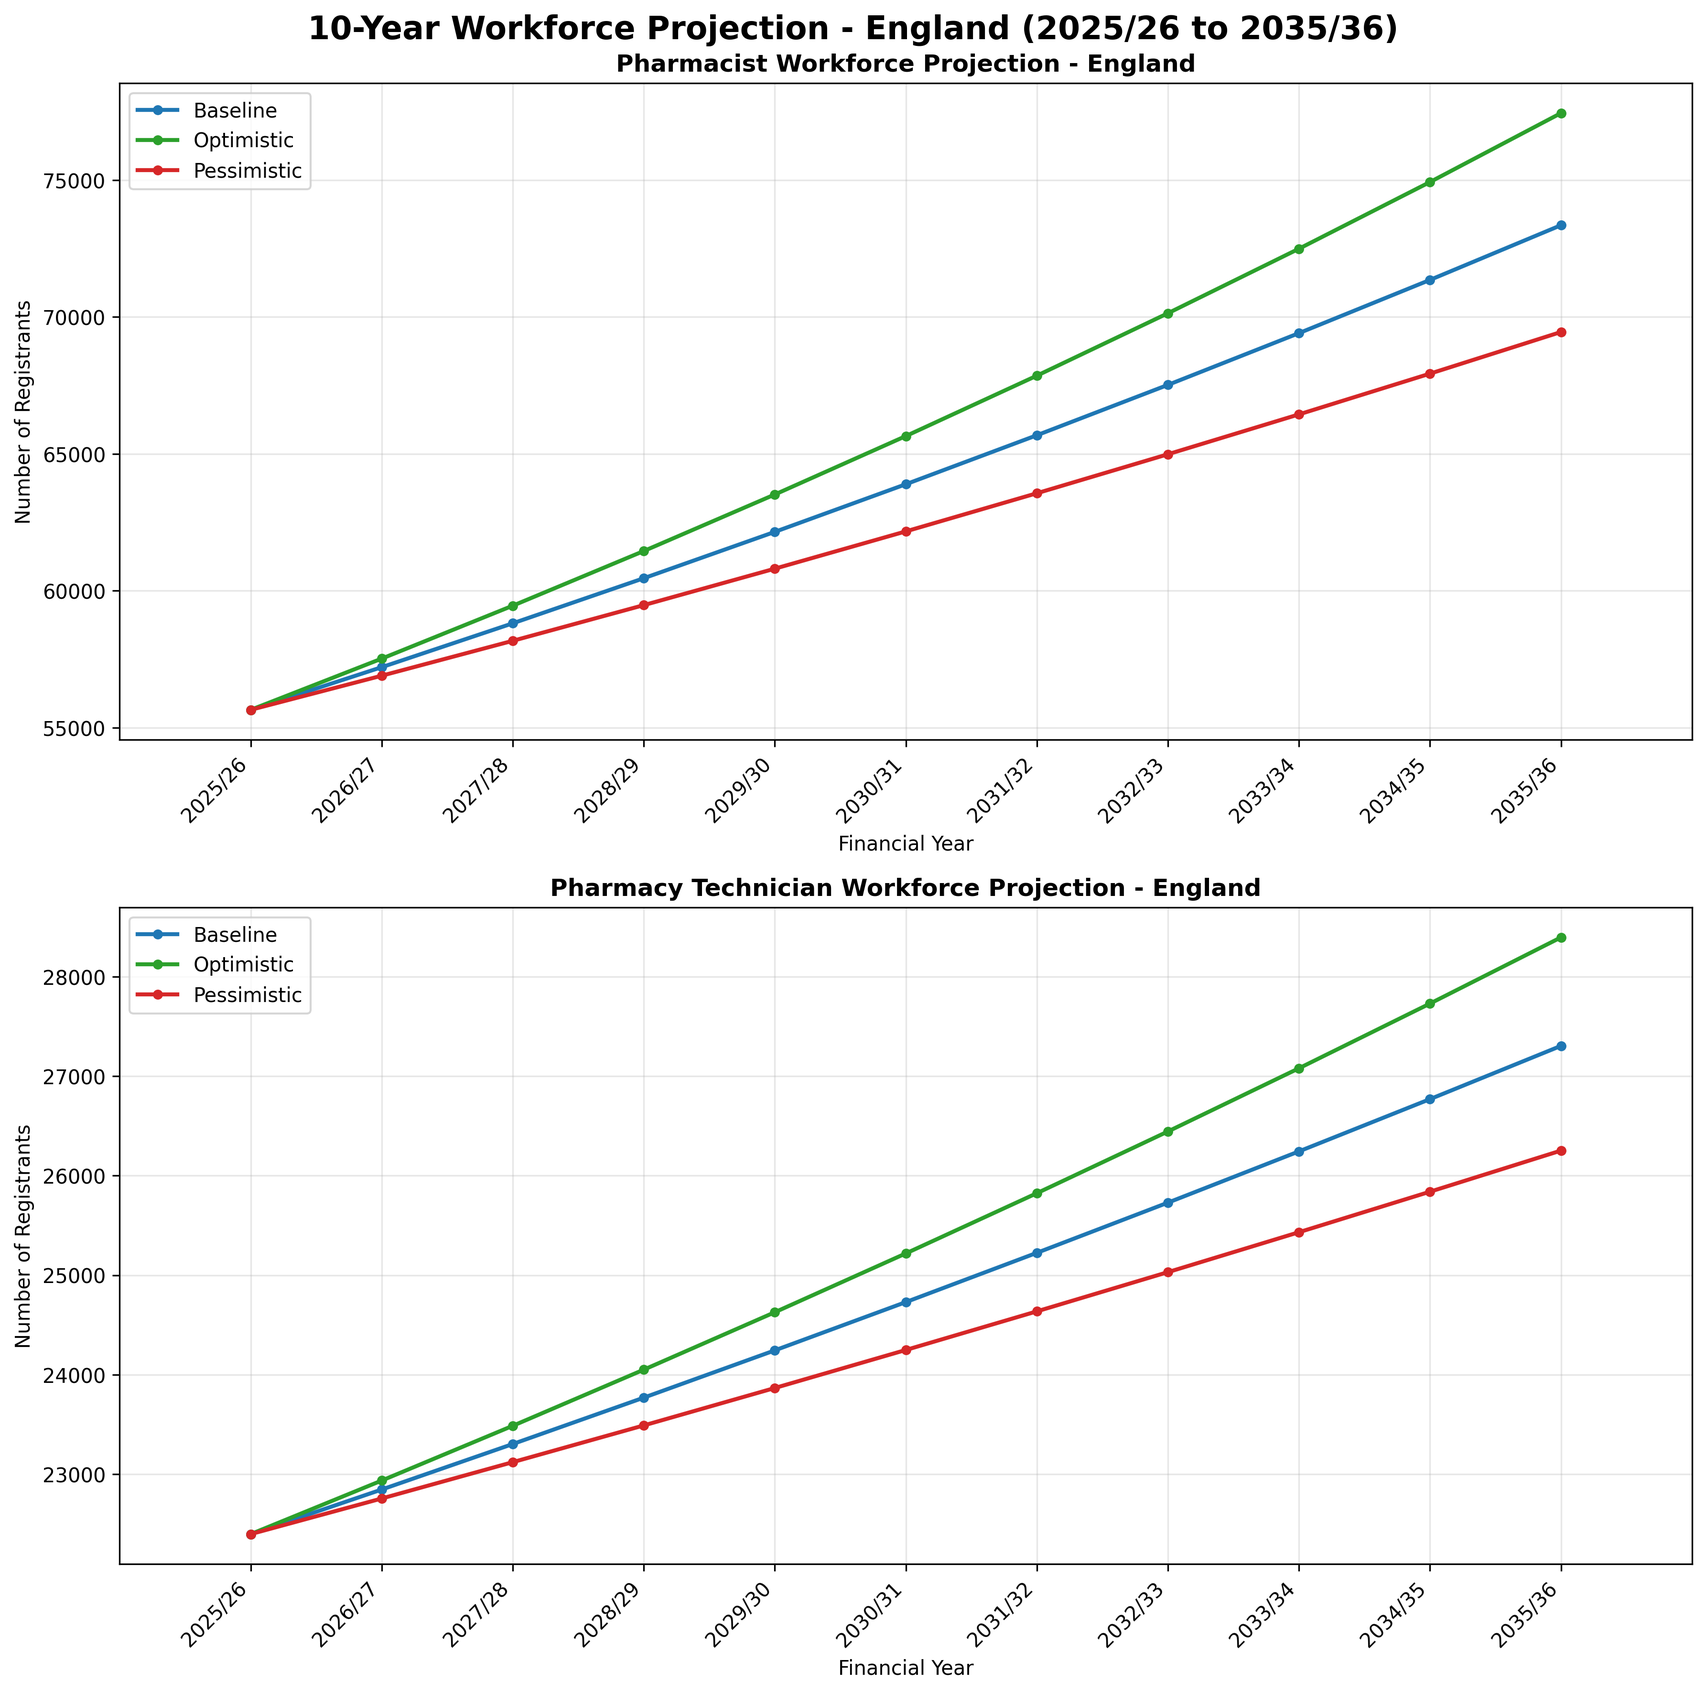
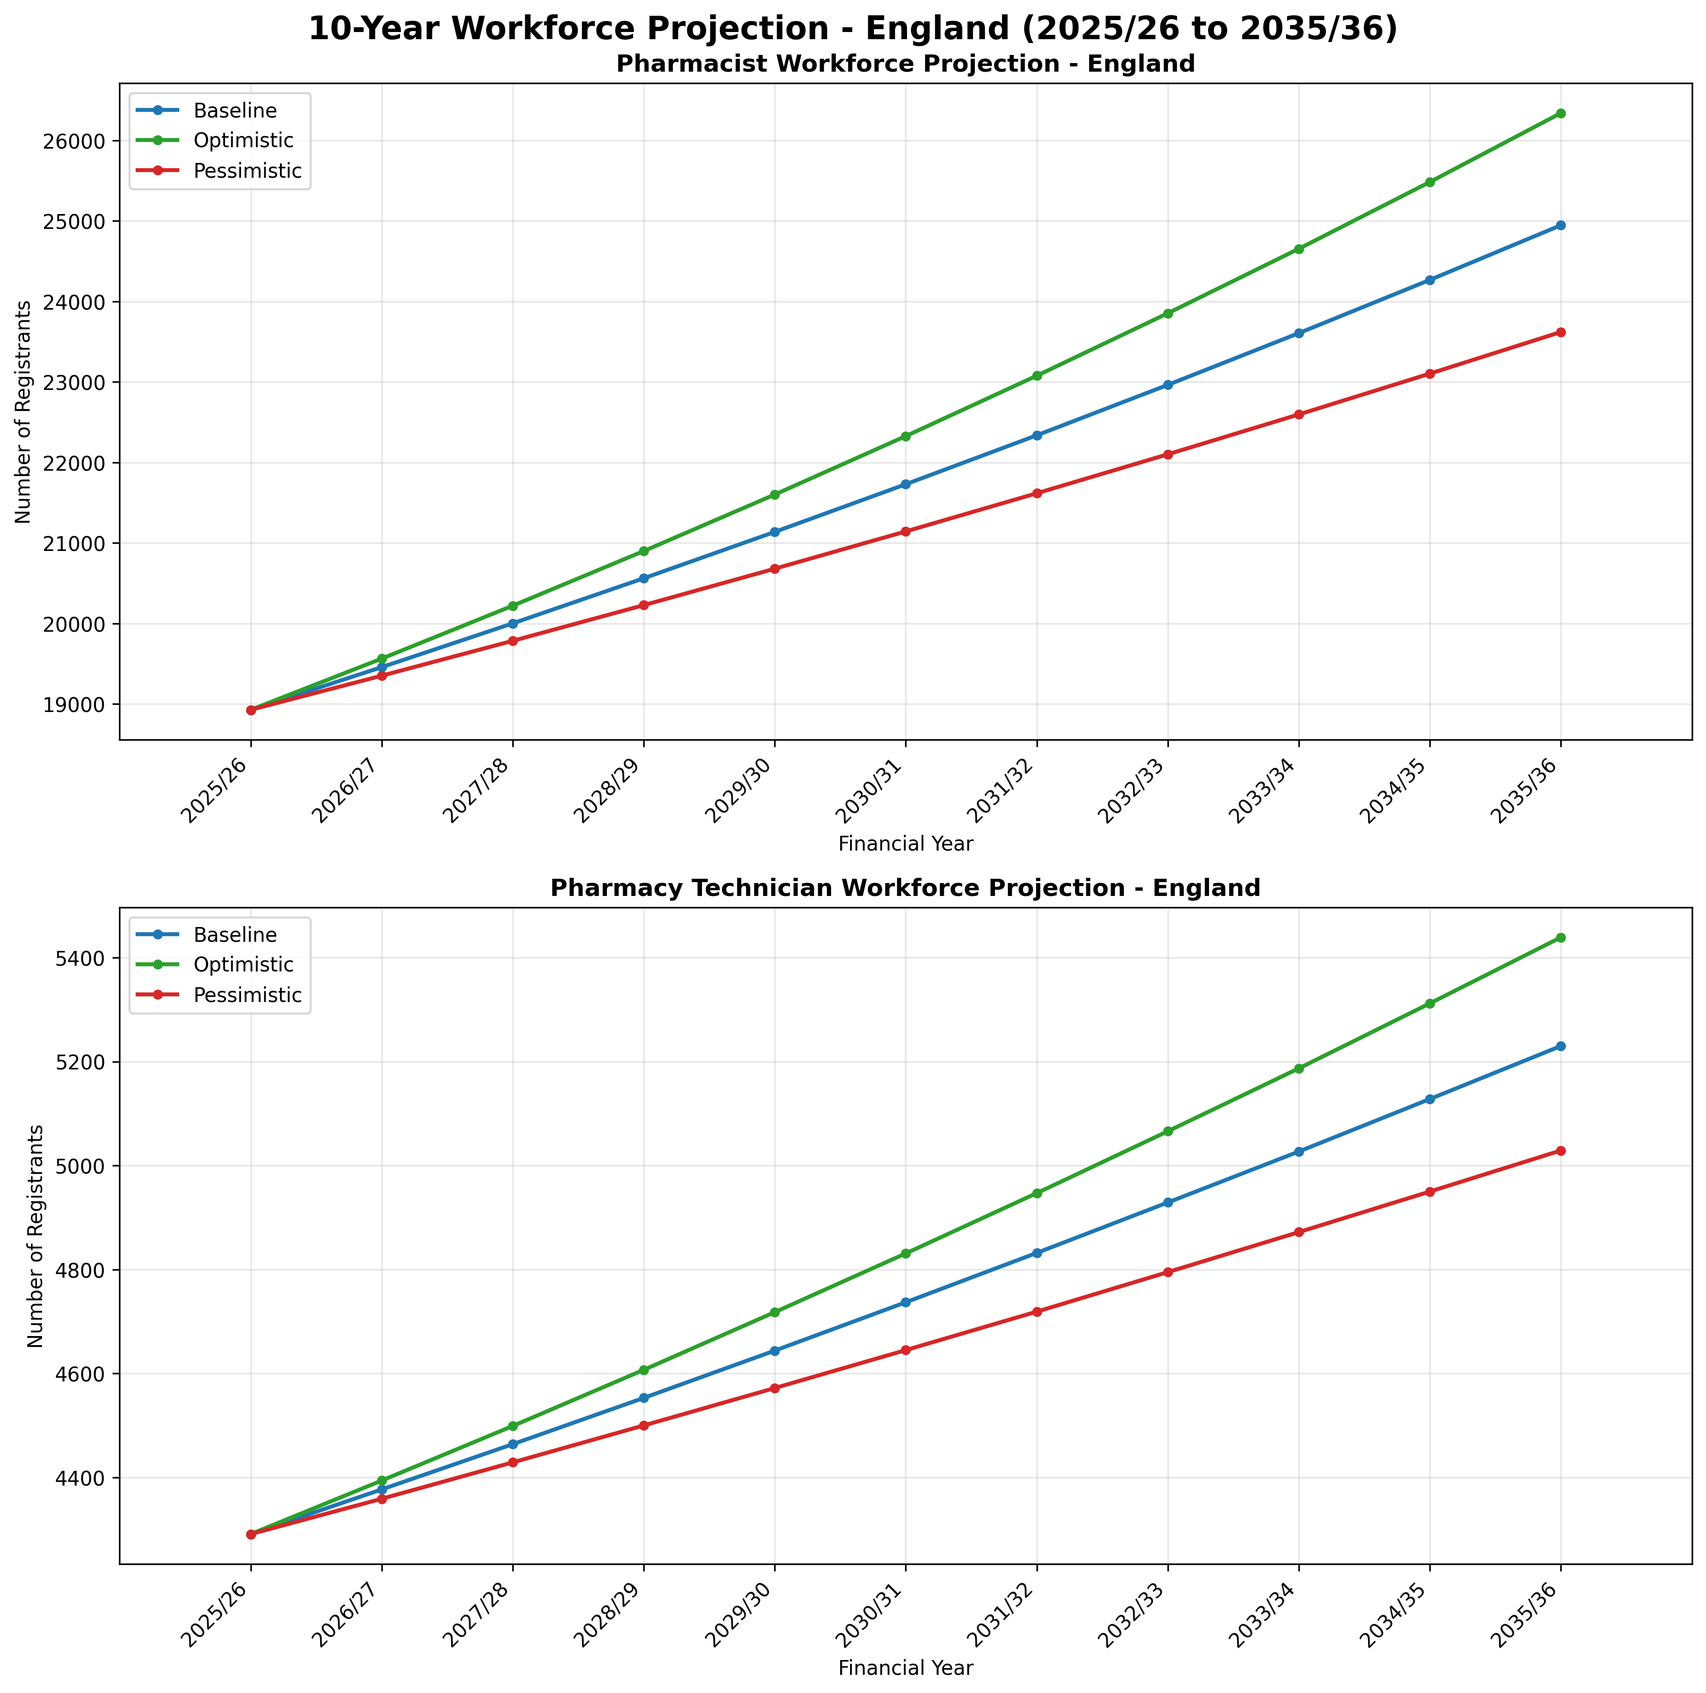
refactor: separate baseline sourcing from growth rate calculation
- Split calculate_annual_growth_rates into two functions:
  * get_baseline(): retrieves baseline data (default: CPWS, option: GPhC)
  * calculate_annual_growth_rates(): calculates CAGR only (removed baseline_total)
- Update project_workforce() to accept baseline and growth_rates as separate parameters
- Consolidate select_registrants_data() into get_baseline() for cleaner API
- Centralize library imports (pandas, sys, Path) in config.py
- Update all scripts to use 'import config' pattern
- Update visualization script to use new function signature
- Update README to clarify CPWS as default baseline and GPhC for growth rates

This refactoring improves separation of concerns, allowing flexible baseline
data source selection while maintaining consistent growth rate calculations
from GPhC historical data.

diff --git a/src/input_data.py b/src/input_data.py
@@ -4,10 +4,8 @@ Input data loading and preprocessing functions.
 Handles reading CSV files and preprocessing data for workforce projections.
 """
 
-import pandas as pd
-from pathlib import Path
 from utils import get_data_dir
-from config import BASELINE_YEAR, BASELINE_MONTH
+from config import BASELINE_YEAR, BASELINE_MONTH, pd, sys, Path
 
 
 def load_csv(file_path, skipinitialspace=True):
@@ -145,6 +143,101 @@ def load_leavers_data(data_dir=None, filename='gphc-registrants-leavers.csv'):
     return df
 
 
+def get_baseline_from_gphc(data_dir=None, filename='gphc-total-number-of-pharmacy-registrants.csv'):
+    """
+    Extract baseline data from GPhC registrants CSV file.
+    
+    Extracts baseline values for March of the baseline year from the GPhC data.
+    Returns values in consistent format: baseline_pharmacists and baseline_technicians.
+    
+    Args:
+        data_dir: Optional data directory path. If None, uses default project structure.
+        filename: Name of the CSV file to load
+    
+    Returns:
+        dict: Dictionary with keys 'baseline_pharmacists' and 'baseline_technicians'
+    """
+    # Load registrants data filtered for baseline year and month
+    df = load_registrants_data(data_dir, filename)
+    
+    # Filter for baseline year
+    df = df[df['year'] == BASELINE_YEAR].copy()
+    
+    # Extract baseline values by profession
+    baseline_data = {}
+    for profession in df['profession'].unique():
+        profession_df = df[df['profession'] == profession]
+        if not profession_df.empty:
+            baseline_value = int(profession_df['registrants'].values[0])
+            # Map profession names to consistent variable names
+            if 'Pharmacist' in profession:
+                baseline_data['baseline_pharmacists'] = baseline_value
+            elif 'Pharmacy Technician' in profession or 'Technician' in profession:
+                baseline_data['baseline_technicians'] = baseline_value
+    
+    return baseline_data
+
+
+def get_baseline_from_cpws():
+    """
+    Load baseline data from CPWS configuration file.
+    
+    Imports baseline_pharmacists and baseline_technicians from data/cpws.py.
+    Returns values in consistent format.
+    
+    Returns:
+        dict: Dictionary with keys 'baseline_pharmacists' and 'baseline_technicians'
+    """
+    # Add data directory to path to import cpws module
+    project_root = Path(__file__).parent.parent
+    data_dir = project_root / 'data'
+    sys.path.insert(0, str(data_dir))
+    
+    import cpws
+    baseline_data = {
+        'baseline_pharmacists': cpws.baseline_pharmacists,
+        'baseline_technicians': cpws.baseline_technicians
+    }
+    return baseline_data
+
+
+def get_baseline(source='cpws', data_dir=None):
+    """
+    Get baseline workforce data per profession.
+    
+    Retrieves baseline values from either CPWS (default) or GPhC data source.
+    Returns baseline values in a consistent format per profession.
+    
+    Args:
+        source: Data source selection - 'cpws' (default) or 'gphc'
+        data_dir: Optional data directory path for GPhC CSV (only used if source='gphc')
+    
+    Returns:
+        dict: Baseline data by profession with keys:
+            - 'Pharmacist': baseline value
+            - 'Pharmacy Technician': baseline value
+    
+    Raises:
+        ValueError: If source is not 'cpws' or 'gphc'
+    """
+    # Select baseline data source
+    if source.lower() == 'cpws':
+        baseline_dict = get_baseline_from_cpws()
+    elif source.lower() == 'gphc':
+        baseline_dict = get_baseline_from_gphc(data_dir)
+    else:
+        raise ValueError(f"Invalid source '{source}'. Must be 'cpws' or 'gphc'")
+    
+    # Map to profession names used in the data
+    baseline_data = {}
+    if 'baseline_pharmacists' in baseline_dict:
+        baseline_data['Pharmacist'] = baseline_dict['baseline_pharmacists']
+    if 'baseline_technicians' in baseline_dict:
+        baseline_data['Pharmacy Technician'] = baseline_dict['baseline_technicians']
+    
+    return baseline_data
+
+
 def calculate_annual_growth_rates(total_df):
     """
     Calculate Compound Annual Growth Rate (CAGR) from yearly snapshot data (2018 to 2025).
@@ -162,7 +255,6 @@ def calculate_annual_growth_rates(total_df):
     
     Returns:
         dict: Growth rate data by profession with keys:
-            - baseline_total: Registrants at baseline year (March 2025 snapshot)
             - annual_growth_rate_pct: CAGR percentage (7-year average annual growth rate)
             - annual_change_estimate: Estimated annual absolute change
             - change_period: Total change over the 7-year period
@@ -231,7 +323,6 @@ def calculate_annual_growth_rates(total_df):
         annual_change_estimate = change_period / years_elapsed
         
         data[profession] = {
-            'baseline_total': baseline_total,
             'annual_growth_rate_pct': round(annual_growth_rate_pct, 2),
             'annual_change_estimate': round(annual_change_estimate, 1),
             'change_period': change_period,
@@ -279,43 +370,3 @@ def create_scenarios(rates_dict):
         'optimistic': 1.2,     # Plus 20% (higher growth)
         'pessimistic': 0.8     # Minus 20% (lower growth)
     }
-
-
-def validate_registrants_data(df):
-    """
-    Validate registrants dataframe for required columns and data quality.
-    
-    Args:
-        df: DataFrame to validate
-    
-    Returns:
-        tuple: (is_valid, error_messages)
-    """
-    errors = []
-    required_columns = ['profession', 'registrants', 'month', 'year']
-    
-    # Check required columns
-    missing_columns = [col for col in required_columns if col not in df.columns]
-    if missing_columns:
-        errors.append(f"Missing required columns: {', '.join(missing_columns)}")
-    
-    # Check for null values in required columns
-    for col in required_columns:
-        if col in df.columns and df[col].isnull().any():
-            null_count = df[col].isnull().sum()
-            errors.append(f"Column '{col}' has {null_count} null values")
-    
-    # Check for negative registrants
-    if 'registrants' in df.columns:
-        if (df['registrants'] < 0).any():
-            errors.append("Found negative values in 'registrants' column")
-    
-    # Check month and year ranges
-    if 'month' in df.columns:
-        invalid_months = df[(df['month'] < 1) | (df['month'] > 12)]
-        if not invalid_months.empty:
-            errors.append(f"Found {len(invalid_months)} rows with invalid month values")
-    
-    is_valid = len(errors) == 0
-    return is_valid, errors
-

diff --git a/src/project_workforce.py b/src/project_workforce.py
@@ -6,14 +6,12 @@ for Pharmacist and Pharmacy Technician professions based on actual registration 
 for England only.
 """
 
-import pandas as pd
-from config import (
-    DURATION, START_PROJECTION_YEAR
-)
+import config
 from input_data import (
     load_registrants_data,
     calculate_annual_growth_rates,
-    create_scenarios
+    create_scenarios,
+    get_baseline
 )
 from utils import add_financial_year_column
 
@@ -23,25 +21,32 @@ def load_registration_data(data_dir=None):
     return load_registrants_data(data_dir)
 
 
-def project_workforce(rates, duration=DURATION):
+def project_workforce(baseline, growth_rates, duration=config.DURATION):
     """
-    Project workforce over specified years based on Compound Annual Growth Rate (CAGR).
+    Project workforce over specified years based on baseline and Compound Annual Growth Rate (CAGR).
     
-    Uses the calculated CAGR (average annual growth rate) to project future workforce
-    numbers. The CAGR is applied annually with compounding effects.
+    Uses the provided baseline values and calculated CAGR (average annual growth rate) to project
+    future workforce numbers. The CAGR is applied annually with compounding effects.
     
     Args:
-        rates: Dictionary from calculate_annual_growth_rates() with CAGR data
-        duration: Number of years to project (default: DURATION from config)
+        baseline: Dictionary from get_baseline() with baseline values per profession
+        growth_rates: Dictionary from calculate_annual_growth_rates() with CAGR data per profession
+        duration: Number of years to project (default: config.DURATION)
     
     Returns:
         dict: Projections by profession and scenario
     """
-    scenarios = create_scenarios(rates)
+    scenarios = create_scenarios(growth_rates)
     
     projections = {}
     
-    for profession, rate_data in rates.items():
+    for profession in growth_rates.keys():
+        if profession not in baseline:
+            print(f"Warning: No baseline data for {profession}. Skipping projections.")
+            continue
+        
+        rate_data = growth_rates[profession]
+        baseline_total = baseline[profession]
         projections[profession] = {}
         
         for scenario_name, adjustment in scenarios.items():
@@ -49,13 +54,13 @@ def project_workforce(rates, duration=DURATION):
             adjusted_growth_rate = rate_data['annual_growth_rate_pct'] * adjustment
             
             # Project year by year starting from baseline period (baseline_year = current_year)
-            current_total = rate_data['baseline_total']
+            current_total = baseline_total
             projection = []
             
             for year in range(duration + 1):
                 if year == 0:
                     projection.append({
-                        'year': START_PROJECTION_YEAR + year,
+                        'year': config.START_PROJECTION_YEAR + year,
                         'total': current_total,
                         'change': 0,
                         'scenario': scenario_name
@@ -66,7 +71,7 @@ def project_workforce(rates, duration=DURATION):
                     change = round(current_total * (adjusted_growth_rate / 100), 5)
                     current_total = round(current_total + change, 5)
                     projection.append({
-                        'year': START_PROJECTION_YEAR + year,
+                        'year': config.START_PROJECTION_YEAR + year,
                         'total': current_total,
                         'change': change,
                         'scenario': scenario_name
@@ -97,7 +102,7 @@ def format_projections(projections):
                     'scenario': scenario_name
                 })
         
-        df = pd.DataFrame(rows)
+        df = config.pd.DataFrame(rows)
         # Add financial year column
         df = add_financial_year_column(df)
         formatted[profession] = df

diff --git a/src/main.py b/src/main.py
@@ -8,10 +8,11 @@ Usage:
     python main.py
 """
 
-from config import DURATION, BASELINE_YEAR
+import config
 from project_workforce import (
     load_registration_data,
     calculate_annual_growth_rates,
+    get_baseline,
     project_workforce,
     format_projections
 )
@@ -19,25 +20,30 @@ from project_workforce import (
 
 def main():
     """Main execution function."""
+    # Get CPWS data
+    baseline = get_baseline(source='cpws')
+    
+    # Calculate growth rates from GPhC historical data
     total_df = load_registration_data()
-    rates = calculate_annual_growth_rates(total_df)
+    growth_rates = calculate_annual_growth_rates(total_df)
     
     print("\n" + "="*60)
     print("Baseline and Annual Growth Rates (CAGR)")
     print("="*60)
-    print(f"Growth Rate Calculation Period: {list(rates.values())[0]['years_elapsed']} year(s) (2018-2025)")
-    print(f"Projection Period: {DURATION} years")
+    print(f"Growth Rate Calculation Period: {list(growth_rates.values())[0]['years_elapsed']} year(s) (2018-2025)")
+    print(f"Projection Period: {config.DURATION} years")
     print("Note: Annual Growth Rate = Compound Annual Growth Rate (CAGR)")
     print()
-    for profession, rate_data in rates.items():
-        print(f"{profession}:")
-        print(f"  Baseline (March {BASELINE_YEAR}): {rate_data['baseline_total']:,} registrants")
-        print(f"  CAGR (Average Annual Growth Rate): {rate_data['annual_growth_rate_pct']:.2f}%")
-        print(f"  Annual Change Estimate: {rate_data['annual_change_estimate']:,.0f} registrants/year")
+    for profession in growth_rates.keys():
+        if profession in baseline:
+            print(f"{profession}:")
+            print(f"  Baseline: {baseline[profession]:,}")
+            print(f"  CAGR (Average Annual Growth Rate): {growth_rates[profession]['annual_growth_rate_pct']:.2f}%")
+            print(f"  Annual Change Estimate: {growth_rates[profession]['annual_change_estimate']:,.0f} registrants/year")
     print("="*60 + "\n")
     
-    print(f"Creating {DURATION}-year projections...")
-    projections = project_workforce(rates)
+    print(f"Creating {config.DURATION}-year projections...")
+    projections = project_workforce(baseline, growth_rates)
     
     print("Formatting projections...")
     projections_df = format_projections(projections)

diff --git a/viz/visualize_projections.py b/viz/visualize_projections.py
@@ -22,7 +22,7 @@ from project_workforce import (
     project_workforce,
     format_projections
 )
-from input_data import calculate_annual_growth_rates
+from input_data import calculate_annual_growth_rates, get_baseline
 from utils import calendar_to_financial_year
 
 
@@ -37,14 +37,17 @@ def create_visualizations(output_dir=None):
     output_dir.mkdir(parents=True, exist_ok=True)
     
     # Generate projections data
+    print("Getting baseline data (CPWS)...")
+    baseline = get_baseline(source='cpws')
+    
     print("Loading registration data...")
     total_df = load_registration_data()
     
     print("Calculating annual growth rates...")
-    rates = calculate_annual_growth_rates(total_df)
+    growth_rates = calculate_annual_growth_rates(total_df)
     
     print(f"Creating {DURATION}-year projections...")
-    projections = project_workforce(rates)
+    projections = project_workforce(baseline, growth_rates)
     
     print("Formatting projections...")
     projections_df = format_projections(projections)

diff --git a/src/config.py b/src/config.py
@@ -4,12 +4,15 @@ Configuration file for workforce projection model.
 Define baseline period and projection parameters here.
 """
 
+# Import libraries
+import sys
+from pathlib import Path
+import pandas as pd
+from utils import calendar_to_financial_year
+
 # Baseline period configuration
 BASELINE_YEAR = 2025
 BASELINE_MONTH = 3  # March 2025 (annual snapshot month)
-
-# Import financial year conversion function
-from utils import calendar_to_financial_year
 
 # Convert baseline year to financial year format (2025 -> '2025/26')
 CURRENT_FINANCIAL_YEAR = calendar_to_financial_year(BASELINE_YEAR)  # 2025/26

diff --git a/README.md b/README.md
@@ -6,6 +6,7 @@ This workforce projection model supports NHS workforce planning for community ph
 ```
 community-pharmacy-workforce-with-open-data/
 ├── data/                          # Data files
+│   ├── cpws.py
 │   ├── gphc-total-number-of-pharmacy-registrants.csv
 │   ├── gphc-registrants-joiners.csv
 │   └── gphc-registrants-leavers.csv
@@ -27,7 +28,12 @@ community-pharmacy-workforce-with-open-data/
 ```
 
 ## Data sources
-- [GPhC registers data](https://www.pharmacyregulation.org/about-us/publications-and-insights/research-data-and-insights/gphc-registers-data)
+- Baseline: [Community Pharmacy Workforce Survey (CPWS)](https://www.data.gov.uk/dataset/09aa8f38-547a-46b7-a117-2cb710ad939b/)
+    - **Unit**: Both Headcount and Full-time equivalent (FTE) figures are available
+    - **Care setting**: High-street pharmacies only
+    - **Survey data**: CPWS 2024 published on 27 June 2025
+- Growth rates: [GPhC registers data](https://www.pharmacyregulation.org/about-us/publications-and-insights/research-data-and-insights/gphc-registers-data)
+    - **Unit**: Headcount only (total number of registered professionals)
+    - **Care setting**: All (Hospital, Community, Primary care, and Pharmacy sector)
     - **Snapshot data**: Annual snapshot data (March) for England from 2018 to 2025
     - **Growth rates**: Compound Annual Growth Rate (CAGR) calculated from 7-year historical data (2018-2025)
-    - The model uses the 7-year average annual growth rate (CAGR) to project workforce changes over a 10-year period
